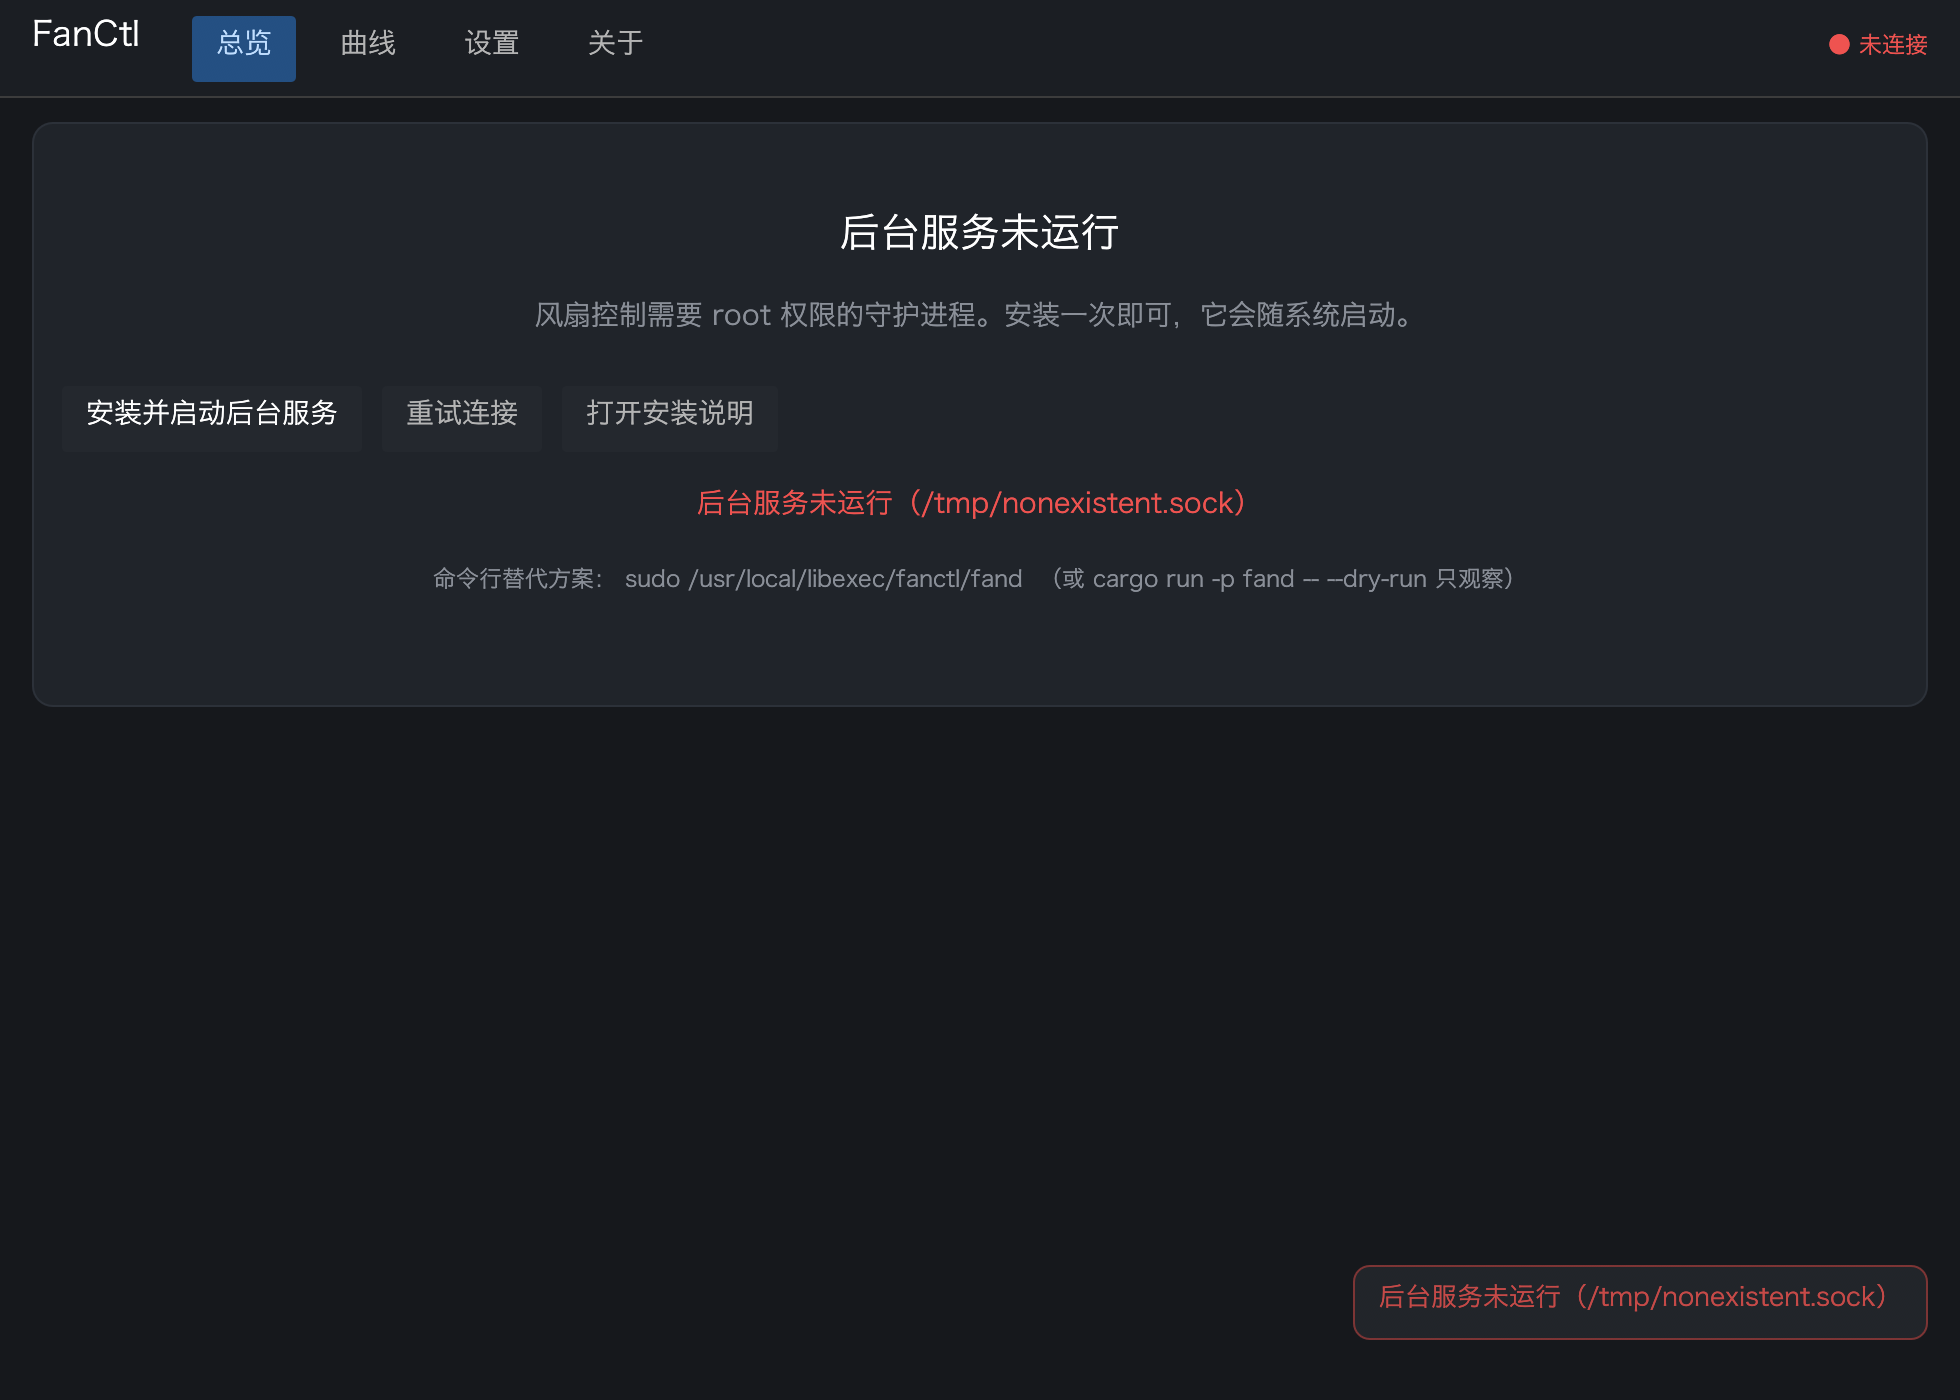
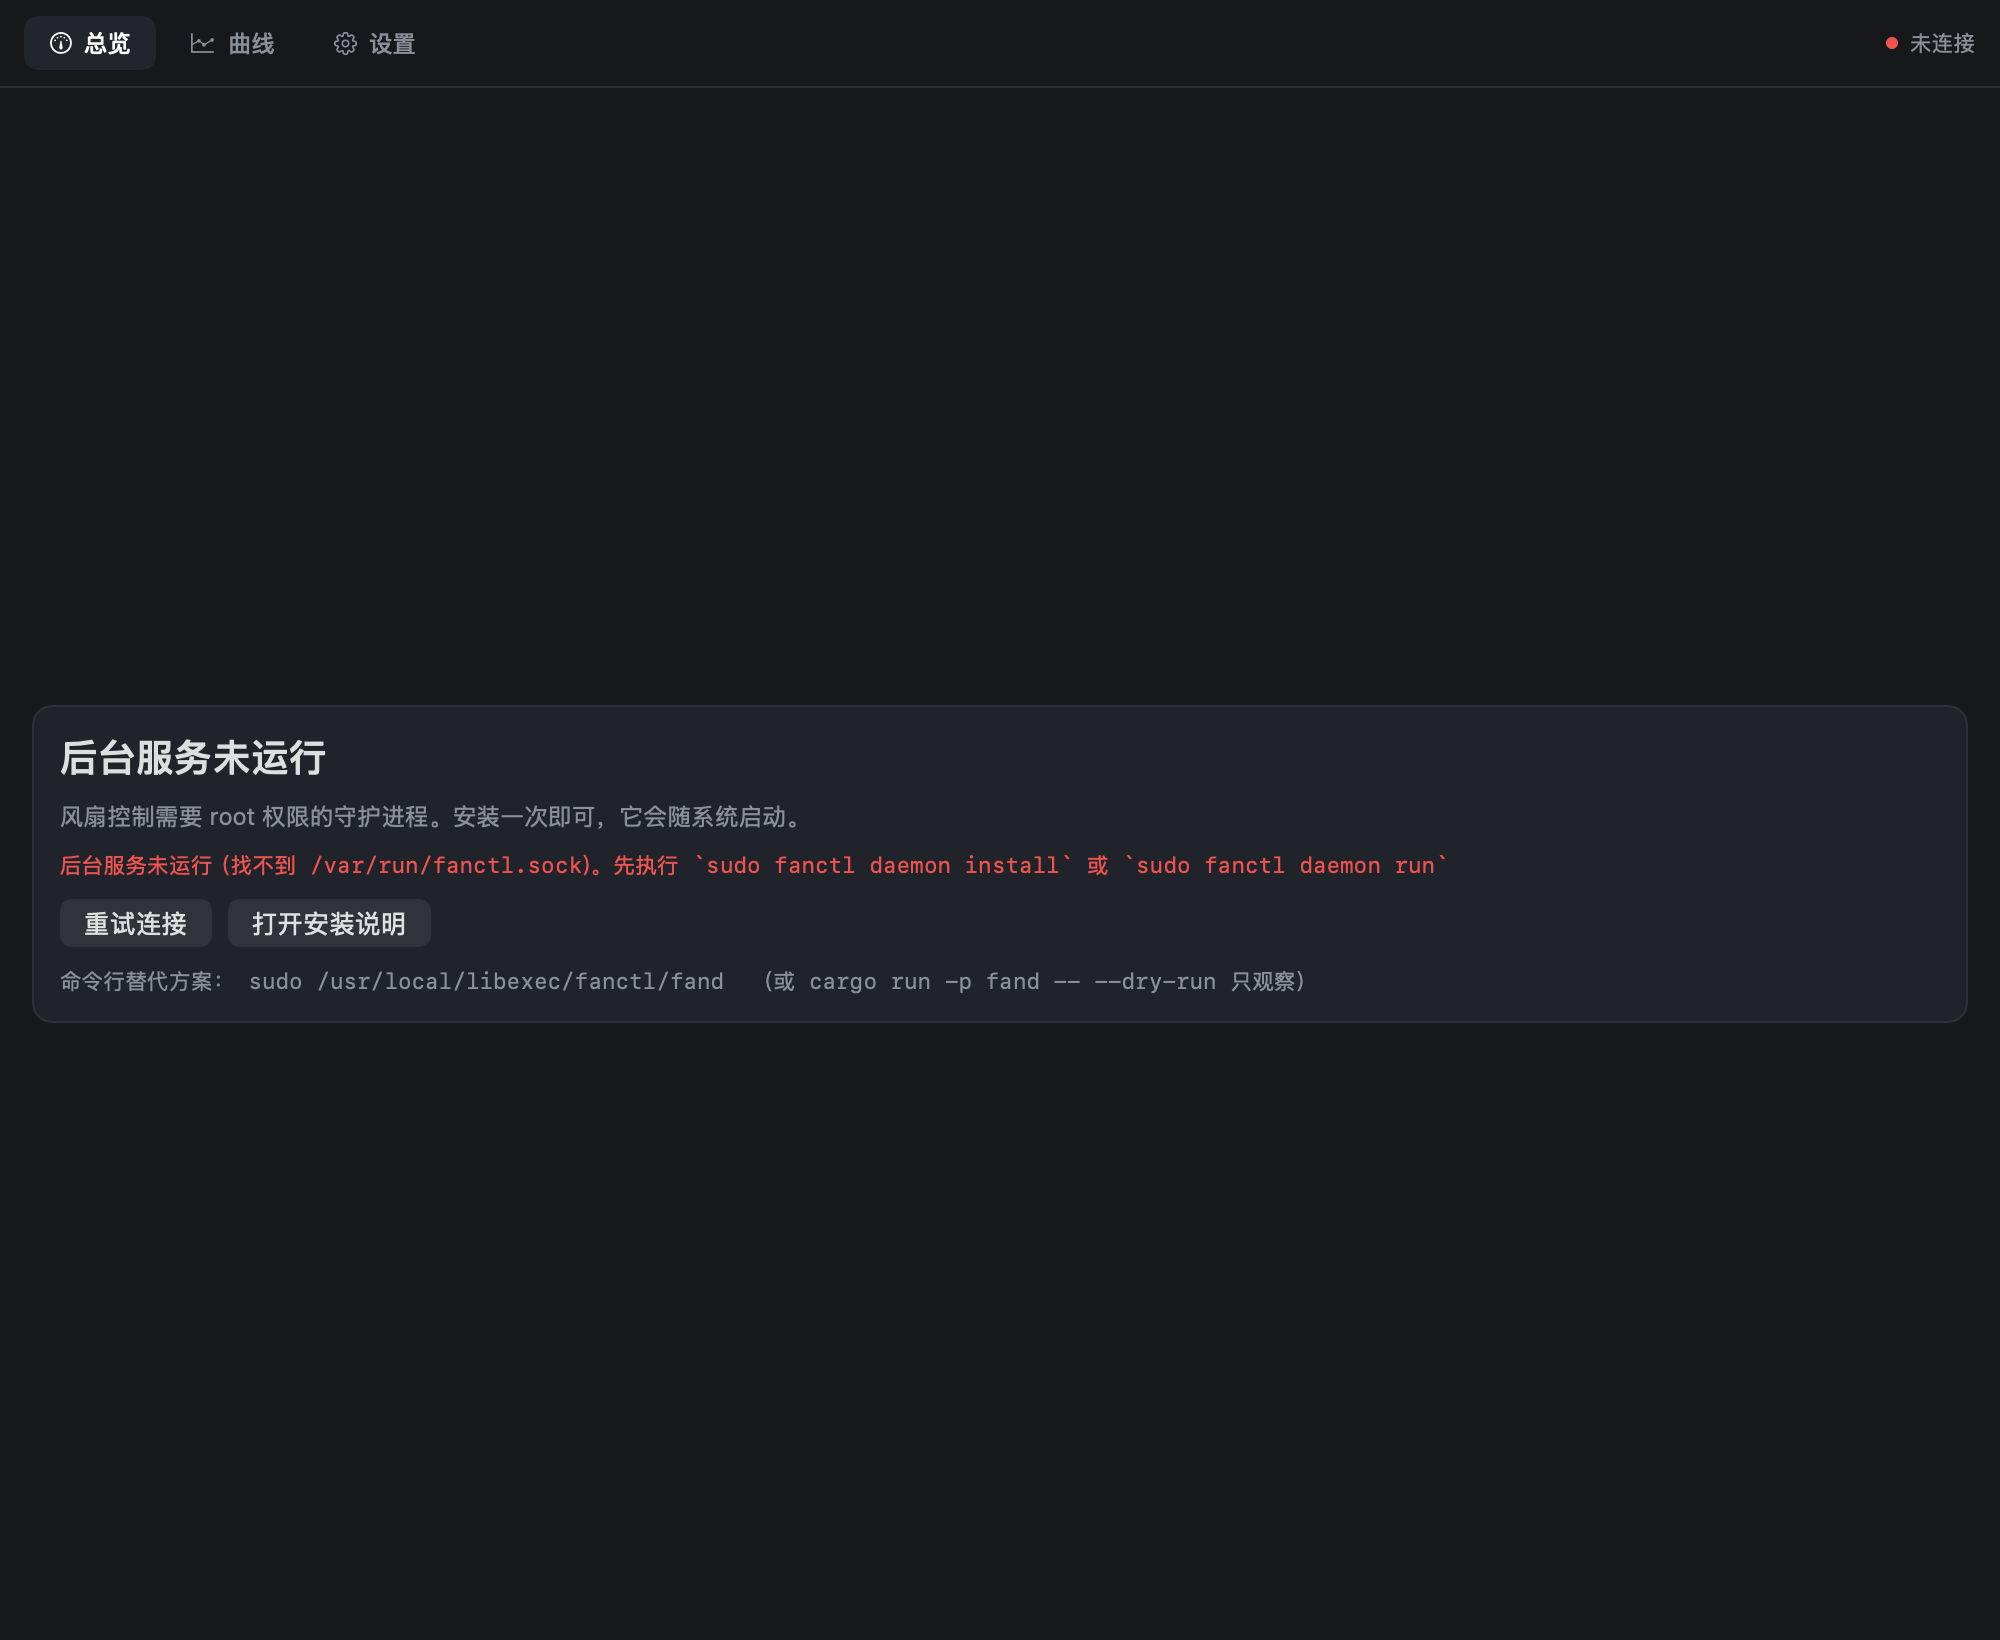
docs: refresh screenshots and install instructions
The README still showed the egui build — tab bar with an 关于 page, blue
buttons — none of which exists in the SwiftUI front end that the .pkg
actually installs. Screenshots are now captured from the real window with
`--shot`, which draws AppKit text fields correctly; ImageRenderer stubs them
out as yellow slashes.

- add `--render` support for the offline state so the "daemon not running"
  card can be regenerated without uninstalling the daemon
- install section leads with the Release download instead of a local build
- correct the memory figures (~40 MB, not ~37 MB) and note the macOS 14
  requirement for the UI
- drop the stale /usr/local/bin/fanui row: it is no longer installed

diff --git a/fanui-mac/Sources/RenderMode.swift b/fanui-mac/Sources/RenderMode.swift
@@ -27,6 +27,15 @@ enum RenderMode {
         for (name, view) in pages {
             render(view, size: CGSize(width: 1000, height: 820), to: directory, name: name)
         }
+
+        // The offline state is a different branch of the same views, so it
+        // needs its own store rather than a flag on the seeded one.
+        let offline = FanStore()
+        offline.seedOfflineForRendering()
+        render(
+            AnyView(RootView(store: offline, scrollable: false)),
+            size: CGSize(width: 1000, height: 820), to: directory, name: "offline")
+
         print("已输出到 \(directory.path)")
         exit(0)
     }

diff --git a/fanui-mac/Sources/Store.swift b/fanui-mac/Sources/Store.swift
@@ -403,6 +403,15 @@ extension FanStore {
                 mode: .curve)
         }
     }
+
+    /// The "daemon is not running" state, for `--render`. Deliberately leaves
+    /// `snapshot` nil: that is exactly what the views branch on.
+    @MainActor
+    func seedOfflineForRendering() {
+        self.snapshot = nil
+        self.connected = false
+        self.lastError = ClientError.notRunning(socketPath).errorDescription
+    }
 }
 
 
